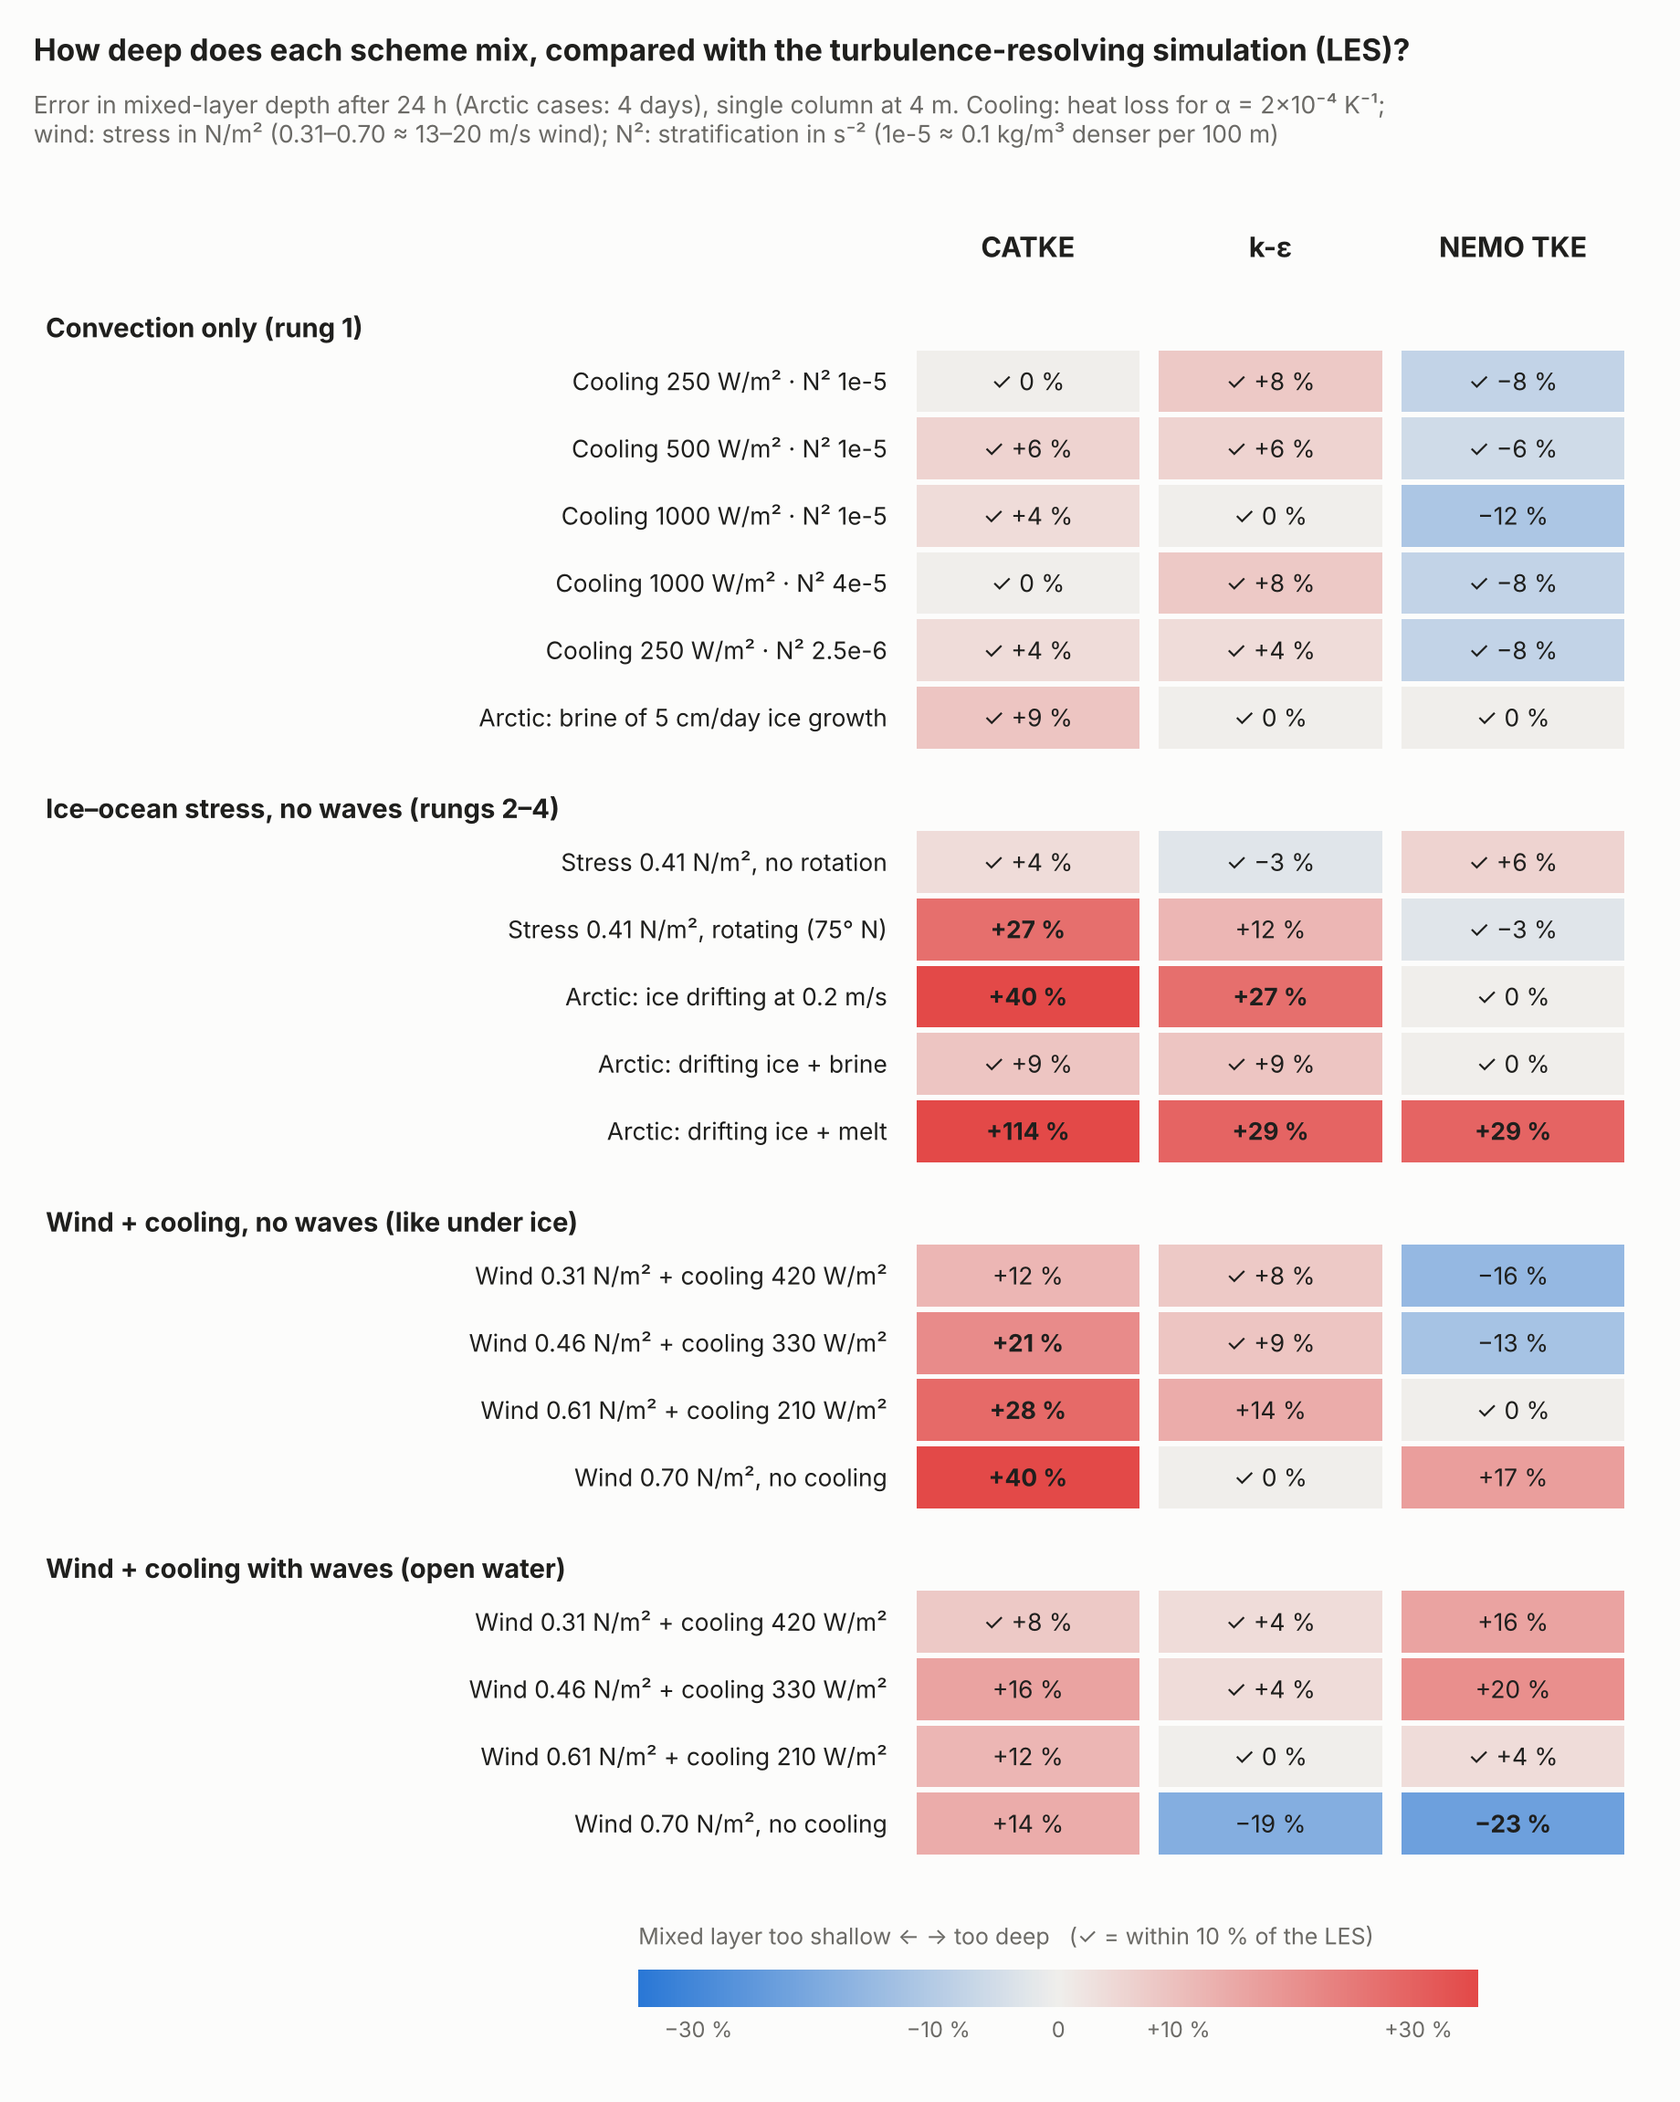
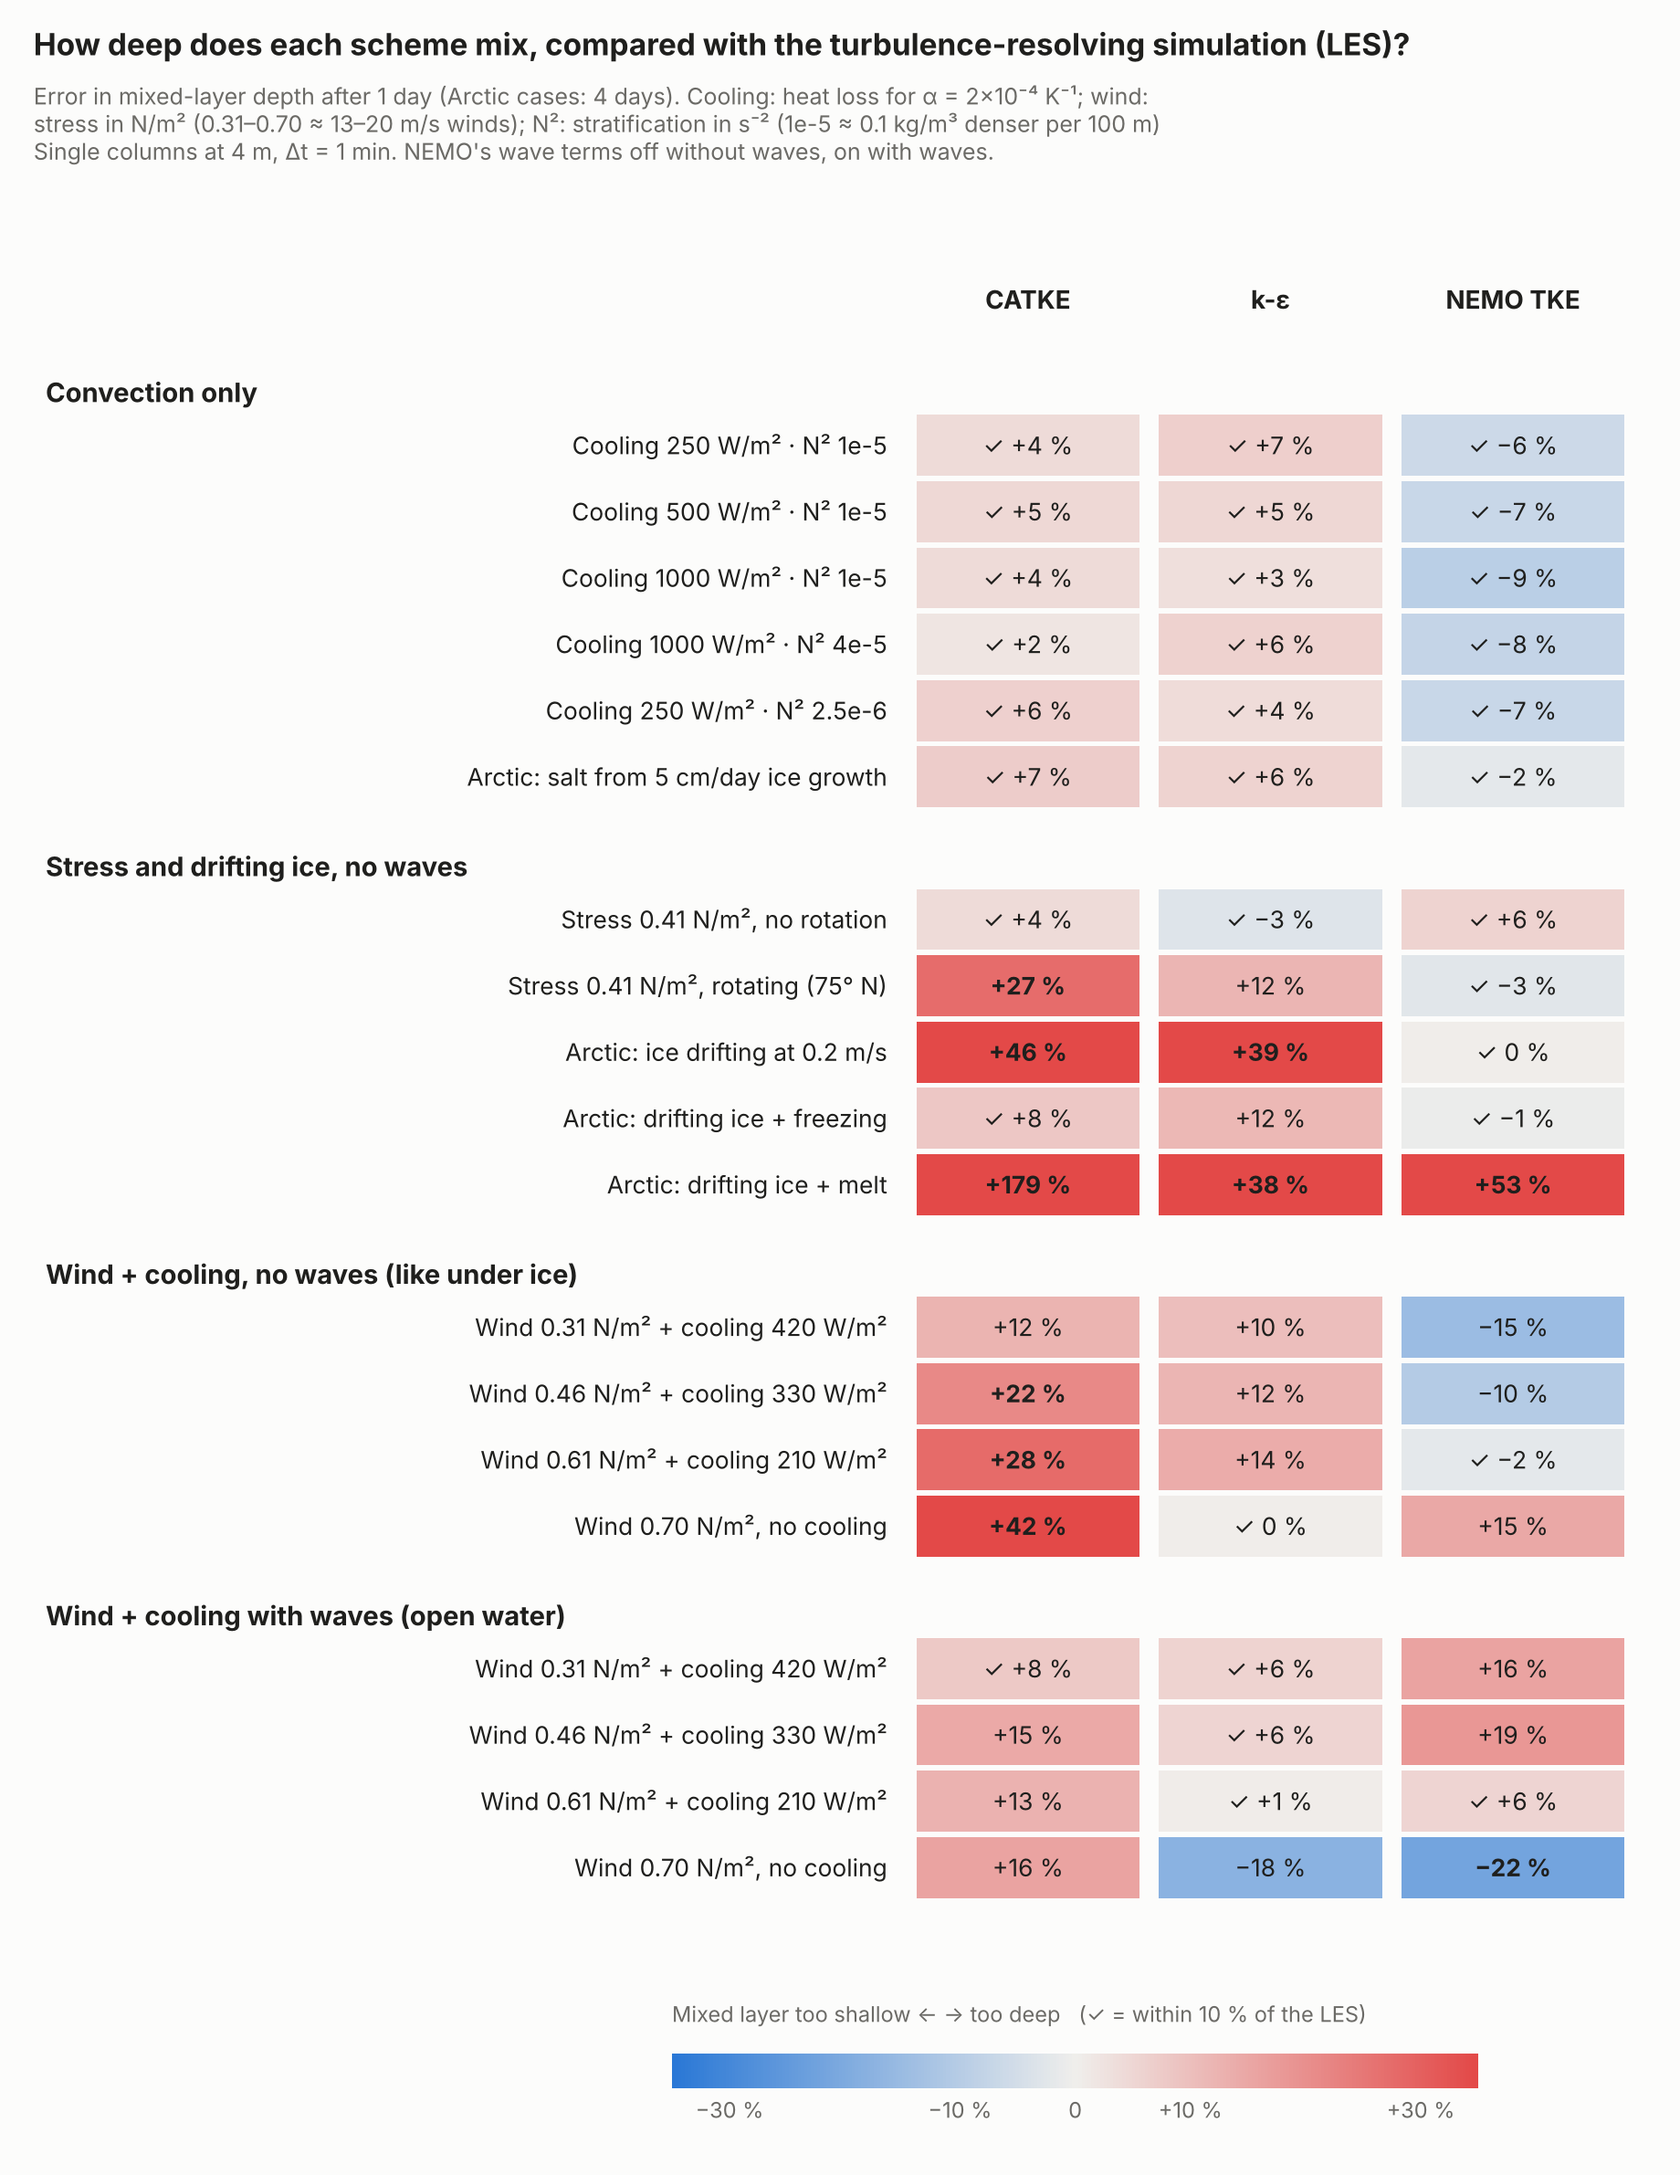
les_under_ice/issue: both scorecards from scorecard_numbers.csv (current depth measure)
scorecard.png: CATKE, k-ε, NEMO TKE, 4 m, Δt 1 min (ice drag +46/+39/0 %, melt +179/+38/+53 %).
scorecard_catke.png: default vs adapted CATKE (cap 0.1, Cˢ 0.991, half Cᵂu★), 4 m and GLORYS
levels, Δt 10 min, targets marked. CSV from Francis's run on pelee, 23 Nov.

Claude-Session: https://claude.ai/code/session_01AbhhvoXen2vZSP4ZrEkbYa

diff --git a/les_under_ice/issue/scorecard.py b/les_under_ice/issue/scorecard.py
@@ -1,95 +1,125 @@
-# Scorecard figure for the GitHub issue (claude/issue-draft-mixing-schemes.md): depth error of CATKE, k-ε and NEMO TKE
-# against the LES, 4 m columns. Numbers typed in from the comparison tables (22 Nov). python3 scorecard.py -> scorecard.png
+# Scorecard figures for the Oceananigans issue (claude/issue-draft-catke-under-ice.md), from scorecard_numbers.csv
+# (written by scorecard_numbers.jl on pelee, 23 Nov: every depth with the current, interpolated measure).
+#   scorecard.png        CATKE, k-ε and NEMO's TKE against the LES, 4 m columns, Δt = 1 min
+#   scorecard_catke.png  default against adapted CATKE (rotation limit C^f = 0.1, Cˢ = 0.991, half the surface TKE flux),
+#                        4 m and GLORYS's 50 levels, Δt = 10 min
+# python3 scorecard.py
+import csv
 import matplotlib
 matplotlib.use("Agg")
 import matplotlib.pyplot as plt
 from matplotlib.colors import LinearSegmentedColormap, TwoSlopeNorm
 import numpy as np
 
-# Depth error of each scheme against the LES, % of the LES depth, on the 4 m column grid
+errors = {}
+for r in csv.DictReader(open("scorecard_numbers.csv")):
+    errors[(r["case"], r["column"])] = 100 * float(r["error"])
+
+conv = lambda N2, Jb: f"convection_N2_{N2}_Jb_{Jb}"
 groups = [
- ("Convection only (rung 1)", [
-   ("Cooling 250 W/m² · N² 1e-5",           [0, 8, -8]),
-   ("Cooling 500 W/m² · N² 1e-5",         [6, 6, -6]),
-   ("Cooling 1000 W/m² · N² 1e-5",         [4, 0, -12]),
-   ("Cooling 1000 W/m² · N² 4e-5",         [0, 8, -8]),
-   ("Cooling 250 W/m² · N² 2.5e-6",         [4, 4, -8]),
-   ("Arctic: brine of 5 cm/day ice growth",     [9, 0, 0]),
+ ("Convection only", [
+   (conv("1.0e-5", "1.2e-7"), "Cooling 250 W/m² · N² 1e-5"),
+   (conv("1.0e-5", "2.4e-7"), "Cooling 500 W/m² · N² 1e-5"),
+   (conv("1.0e-5", "4.8e-7"), "Cooling 1000 W/m² · N² 1e-5"),
+   (conv("4.0e-5", "4.8e-7"), "Cooling 1000 W/m² · N² 4e-5"),
+   (conv("2.5e-6", "1.2e-7"), "Cooling 250 W/m² · N² 2.5e-6"),
+   ("arctic_brine_convection", "Arctic: salt from 5 cm/day ice growth"),
  ]),
- ("Ice–ocean stress, no waves (rungs 2–4)", [
-   ("Stress 0.41 N/m², no rotation",     [4, -3, 6]),
-   ("Stress 0.41 N/m², rotating (75° N)", [27, 12, -3]),
-   ("Arctic: ice drifting at 0.2 m/s",   [40, 27, 0]),
-   ("Arctic: drifting ice + brine",      [9, 9, 0]),
-   ("Arctic: drifting ice + melt",       [114, 29, 29]),
+ ("Stress and drifting ice, no waves", [
+   ("kato_phillips",         "Stress 0.41 N/m², no rotation"),
+   ("rotating_stress",       "Stress 0.41 N/m², rotating (75° N)"),
+   ("arctic_ice_drag",       "Arctic: ice drifting at 0.2 m/s"),
+   ("arctic_ice_drag_brine", "Arctic: drifting ice + freezing"),
+   ("arctic_ice_drag_melt",  "Arctic: drifting ice + melt"),
  ]),
  ("Wind + cooling, no waves (like under ice)", [
-   ("Wind 0.31 N/m² + cooling 420 W/m²", [12, 8, -16]),
-   ("Wind 0.46 N/m² + cooling 330 W/m²", [21, 9, -13]),
-   ("Wind 0.61 N/m² + cooling 210 W/m²", [28, 14, 0]),
-   ("Wind 0.70 N/m², no cooling",        [40, 0, 17]),
+   ("weak_wind_strong_cooling", "Wind 0.31 N/m² + cooling 420 W/m²"),
+   ("med_wind_med_cooling",     "Wind 0.46 N/m² + cooling 330 W/m²"),
+   ("strong_wind_weak_cooling", "Wind 0.61 N/m² + cooling 210 W/m²"),
+   ("strong_wind",              "Wind 0.70 N/m², no cooling"),
  ]),
  ("Wind + cooling with waves (open water)", [
-   ("Wind 0.31 N/m² + cooling 420 W/m²", [8, 4, 16]),
-   ("Wind 0.46 N/m² + cooling 330 W/m²", [16, 4, 20]),
-   ("Wind 0.61 N/m² + cooling 210 W/m²", [12, 0, 4]),
-   ("Wind 0.70 N/m², no cooling",        [14, -19, -23]),
+   ("weak_wind_strong_cooling_stokes", "Wind 0.31 N/m² + cooling 420 W/m²"),
+   ("med_wind_med_cooling_stokes",     "Wind 0.46 N/m² + cooling 330 W/m²"),
+   ("strong_wind_weak_cooling_stokes", "Wind 0.61 N/m² + cooling 210 W/m²"),
+   ("strong_wind_stokes",              "Wind 0.70 N/m², no cooling"),
  ]),
 ]
-schemes = ["CATKE", "k-ε", "NEMO TKE"]
-
-rows, labels, group_rows = [], [], []
-for g, items in groups:
-    group_rows.append((g, len(rows)))
-    for lab, vals in items:
-        rows.append(vals); labels.append(lab)
-data = np.array(rows, float)
+targets = {"rotating_stress", "arctic_ice_drag", "arctic_ice_drag_brine", "arctic_ice_drag_melt",
+           "weak_wind_strong_cooling", "med_wind_med_cooling", "strong_wind_weak_cooling", "strong_wind"}
 
 blue, red, mid = "#2a78d6", "#e34948", "#f0efec"
 cmap = LinearSegmentedColormap.from_list("div", [blue, mid, red])
 norm = TwoSlopeNorm(vmin=-35, vcenter=0, vmax=35)
+ink, muted, paper = "#1f1f1d", "#6b6a66", "#fcfcfb"
 
-n = len(rows)
-gap = 0.6
-ypos, y = [], 0.0
-gi = 0
-group_y = []
-for i in range(n):
-    if gi < len(group_rows) and group_rows[gi][1] == i:
-        y += gap; group_y.append((group_rows[gi][0], y)); y += 0.55; gi += 1
-    ypos.append(y); y += 1.0
-H = y
 
-fig, ax = plt.subplots(figsize=(9.2, 0.42 * H + 1.6), dpi=200)
-fig.patch.set_facecolor("#fcfcfb"); ax.set_facecolor("#fcfcfb")
-ink, muted = "#1f1f1d", "#6b6a66"
-for i in range(n):
-    for j in range(3):
-        v = data[i, j]
-        ax.add_patch(plt.Rectangle((j + 0.04, ypos[i] + 0.04), 0.92, 0.92, color=cmap(norm(np.clip(v, -35, 35))),
-                                   lw=0))
-        mark = "✓ " if abs(v) <= 10 else ""
-        ax.text(j + 0.5, ypos[i] + 0.5, (f"{mark}{v:+.0f} %" if v != 0 else "✓ 0 %").replace("-", "−"), ha="center", va="center",
-                fontsize=9.5, color=ink, fontweight="bold" if abs(v) > 20 else "normal")
-    ax.text(-0.08, ypos[i] + 0.5, labels[i], ha="right", va="center", fontsize=9.5, color=ink)
-for g, yy in group_y:
-    ax.text(-3.55, yy + 0.25, g, ha="left", va="center", fontsize=10.5, color=ink, fontweight="bold")
-for j, s in enumerate(schemes):
-    ax.text(j + 0.5, -0.35, s, ha="center", va="center", fontsize=11, color=ink, fontweight="bold")
-ax.set_xlim(-3.6, 3.05); ax.set_ylim(H + 0.2, -0.9); ax.axis("off")
+def draw(columns, headers, title, subtitle, filename, mark_targets=False, separator=None):
+    # keep only rows with every column present
+    kept = [(g, [(c, lab) for c, lab in items if all(np.isfinite(errors.get((c, col), np.nan)) for col in columns)])
+            for g, items in groups]
+    kept = [(g, items) for g, items in kept if items]
+    ncol = len(columns)
+    rows, labels, cases, group_y, ypos, y = [], [], [], [], [], 0.0
+    for g, items in kept:
+        y += 0.6; group_y.append((g, y)); y += 0.55
+        for c, lab in items:
+            rows.append([errors[(c, col)] for col in columns]); labels.append(lab); cases.append(c)
+            ypos.append(y); y += 1.0
+    H, data = y, np.array(rows)
+    label_width = 3.6
+    fig, ax = plt.subplots(figsize=(5.6 + 1.2 * ncol, 0.42 * H + 2.0), dpi=200)
+    fig.patch.set_facecolor(paper); ax.set_facecolor(paper)
+    for i in range(len(rows)):
+        for j in range(ncol):
+            v = data[i, j]
+            ax.add_patch(plt.Rectangle((j + 0.04, ypos[i] + 0.04), 0.92, 0.92,
+                                       color=cmap(norm(np.clip(v, -35, 35))), lw=0))
+            r = round(v)
+            mark = "✓ " if abs(v) <= 10 else ""
+            text = (f"{mark}{r:+d} %" if r != 0 else "✓ 0 %").replace("-", "−")
+            ax.text(j + 0.5, ypos[i] + 0.5, text, ha="center", va="center", fontsize=9.5, color=ink,
+                    fontweight="bold" if abs(v) > 20 else "normal")
+        lab = labels[i] + ("   ◆" if mark_targets and cases[i] in targets else "")
+        ax.text(-0.08, ypos[i] + 0.5, lab, ha="right", va="center", fontsize=9.5, color=ink)
+    for g, yy in group_y:
+        ax.text(-label_width + 0.05, yy + 0.25, g, ha="left", va="center", fontsize=10.5, color=ink, fontweight="bold")
+    for j, h in enumerate(headers):
+        ax.text(j + 0.5, -0.55, h, ha="center", va="center", fontsize=10, color=ink, fontweight="bold",
+                linespacing=1.15)
+    if separator is not None:
+        ax.plot([separator, separator], [-1.1, H], color=muted, lw=1.2)
+    ax.set_xlim(-label_width, ncol + 0.05); ax.set_ylim(H + 0.2, -1.3); ax.axis("off")
 
-# legend bar
-cax = fig.add_axes([0.38, 0.045, 0.5, 0.018])
-grad = np.linspace(-35, 35, 256)[None, :]
-cax.imshow(grad, aspect="auto", cmap=cmap, norm=norm, extent=[-35, 35, 0, 1])
-cax.set_yticks([]); cax.set_xticks([-30, -10, 0, 10, 30])
-cax.set_xticklabels(["−30 %", "−10 %", "0", "+10 %", "+30 %"], fontsize=8.5, color=muted)
-for s in cax.spines.values(): s.set_visible(False)
-cax.tick_params(length=0)
-fig.text(0.38, 0.075, "Mixed layer too shallow ← → too deep   (✓ = within 10 % of the LES)", fontsize=9, color=muted)
-fig.text(0.02, 0.985, "How deep does each scheme mix, compared with the turbulence-resolving simulation (LES)?",
-         fontsize=12, color=ink, fontweight="bold", va="top")
-fig.text(0.02, 0.957, "Error in mixed-layer depth after 24 h (Arctic cases: 4 days), single column at 4 m. Cooling: heat loss for α = 2×10⁻⁴ K⁻¹;\nwind: stress in N/m² (0.31–0.70 ≈ 13–20 m/s wind); N²: stratification in s⁻² (1e-5 ≈ 0.1 kg/m³ denser per 100 m)",
-         fontsize=9.5, color=muted, va="top")
-fig.subplots_adjust(left=0.02, right=0.98, top=0.90, bottom=0.11)
-fig.savefig("scorecard.png", facecolor=fig.get_facecolor())
+    cax = fig.add_axes([0.40, 0.04, 0.48, 0.016])
+    grad = np.linspace(-35, 35, 256)[None, :]
+    cax.imshow(grad, aspect="auto", cmap=cmap, norm=norm, extent=[-35, 35, 0, 1])
+    cax.set_yticks([]); cax.set_xticks([-30, -10, 0, 10, 30])
+    cax.set_xticklabels(["−30 %", "−10 %", "0", "+10 %", "+30 %"], fontsize=8.5, color=muted)
+    for s in cax.spines.values(): s.set_visible(False)
+    cax.tick_params(length=0)
+    legend = "Mixed layer too shallow ← → too deep   (✓ = within 10 % of the LES)"
+    if mark_targets:
+        legend += "\n◆ = target (default CATKE wrong); others are guards (must not get worse)"
+    fig.text(0.40, 0.068, legend, fontsize=8.5, color=muted, va="bottom")
+    fig.text(0.02, 0.988, title, fontsize=12, color=ink, fontweight="bold", va="top")
+    fig.text(0.02, 0.962, subtitle, fontsize=9, color=muted, va="top")
+    fig.subplots_adjust(left=0.02, right=0.98, top=0.885, bottom=0.12)
+    fig.savefig(filename, facecolor=fig.get_facecolor())
+
+
+units = ("Error in mixed-layer depth after 1 day (Arctic cases: 4 days). Cooling: heat loss for α = 2×10⁻⁴ K⁻¹; wind:\n"
+         "stress in N/m² (0.31–0.70 ≈ 13–20 m/s winds); N²: stratification in s⁻² (1e-5 ≈ 0.1 kg/m³ denser per 100 m)")
+
+draw(["catke_dz4_dt1", "k_epsilon_dz4_dt1", "nemo_dz4_dt1"], ["CATKE", "k-ε", "NEMO TKE"],
+     "How deep does each scheme mix, compared with the turbulence-resolving simulation (LES)?",
+     units + "\nSingle columns at 4 m, Δt = 1 min. NEMO's wave terms off without waves, on with waves.",
+     "scorecard.png")
+
+draw(["catke_stock_dz4_dt10", "catke_adapted_dz4_dt10", "catke_stock_glorys50_dt10", "catke_adapted_glorys50_dt10"],
+     ["Default\n4 m", "Adapted\n4 m", "Default\nGLORYS levels", "Adapted\nGLORYS levels"],
+     "Adapting CATKE to no waves and rotation: default against adapted",
+     units + "\nΔt = 10 min. Adapted: rotation limit ℓ ≤ 0.1 √e/|f|, Cˢ = 0.991 (κ = 0.41), half the surface TKE flux.\n"
+     "GLORYS levels: 1 m top cell, 2 m at 10 m depth, 4 m at 25 m.",
+     "scorecard_catke.png", mark_targets=True, separator=2.0)
+print("wrote scorecard.png and scorecard_catke.png")
